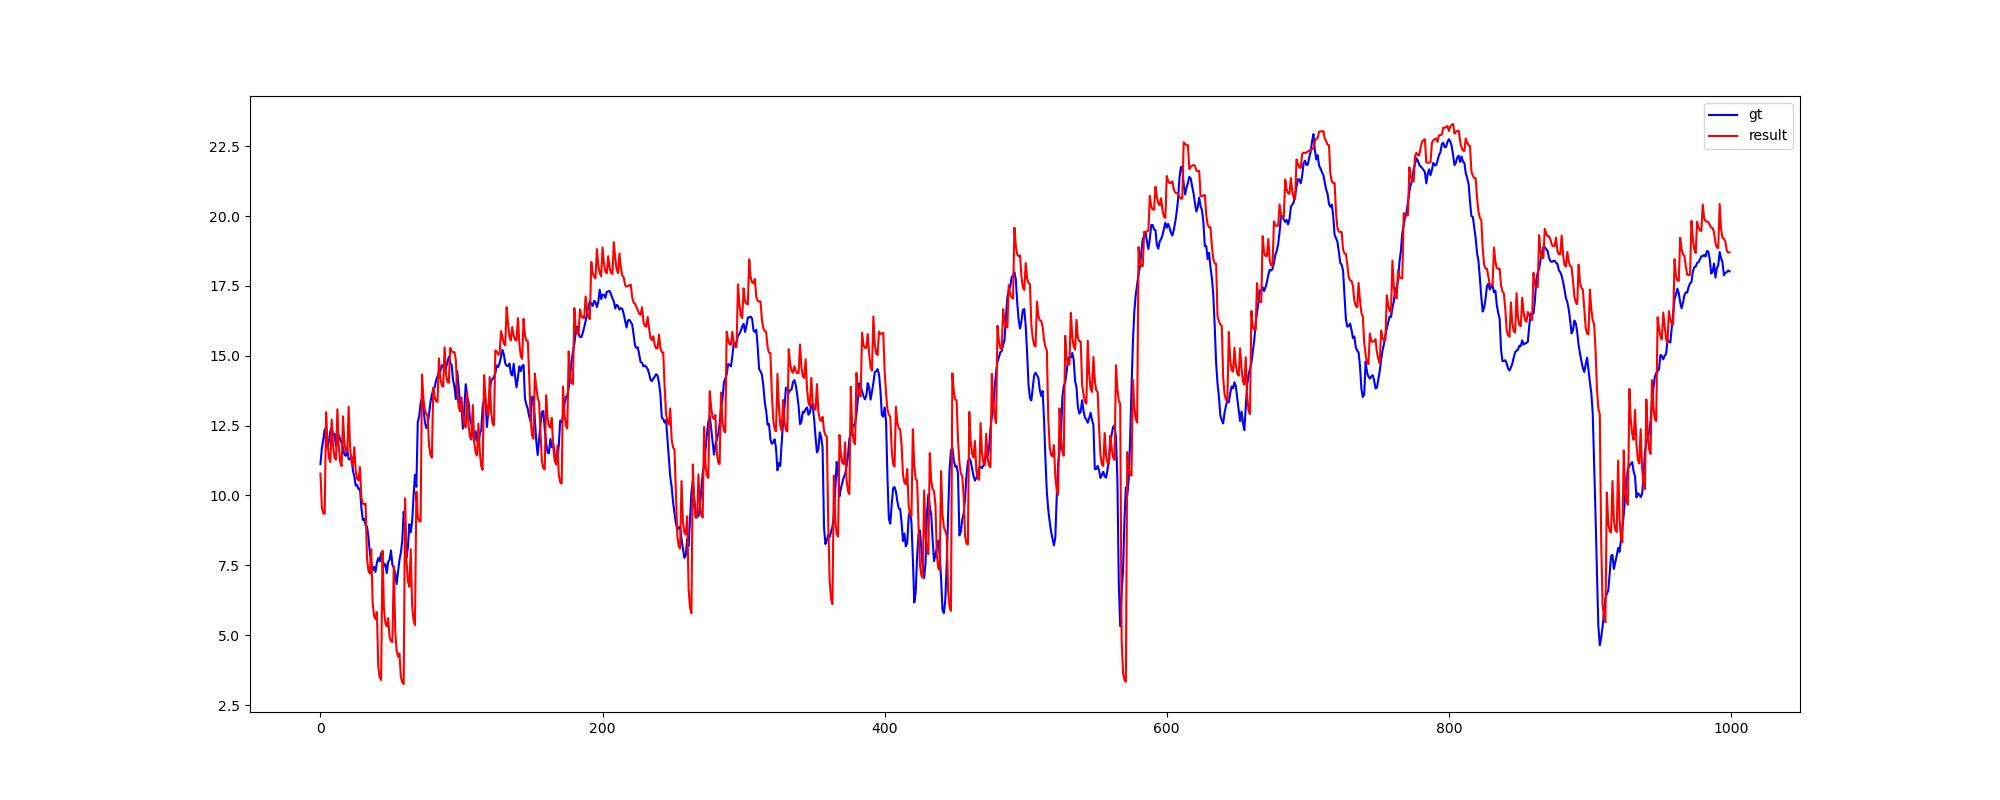
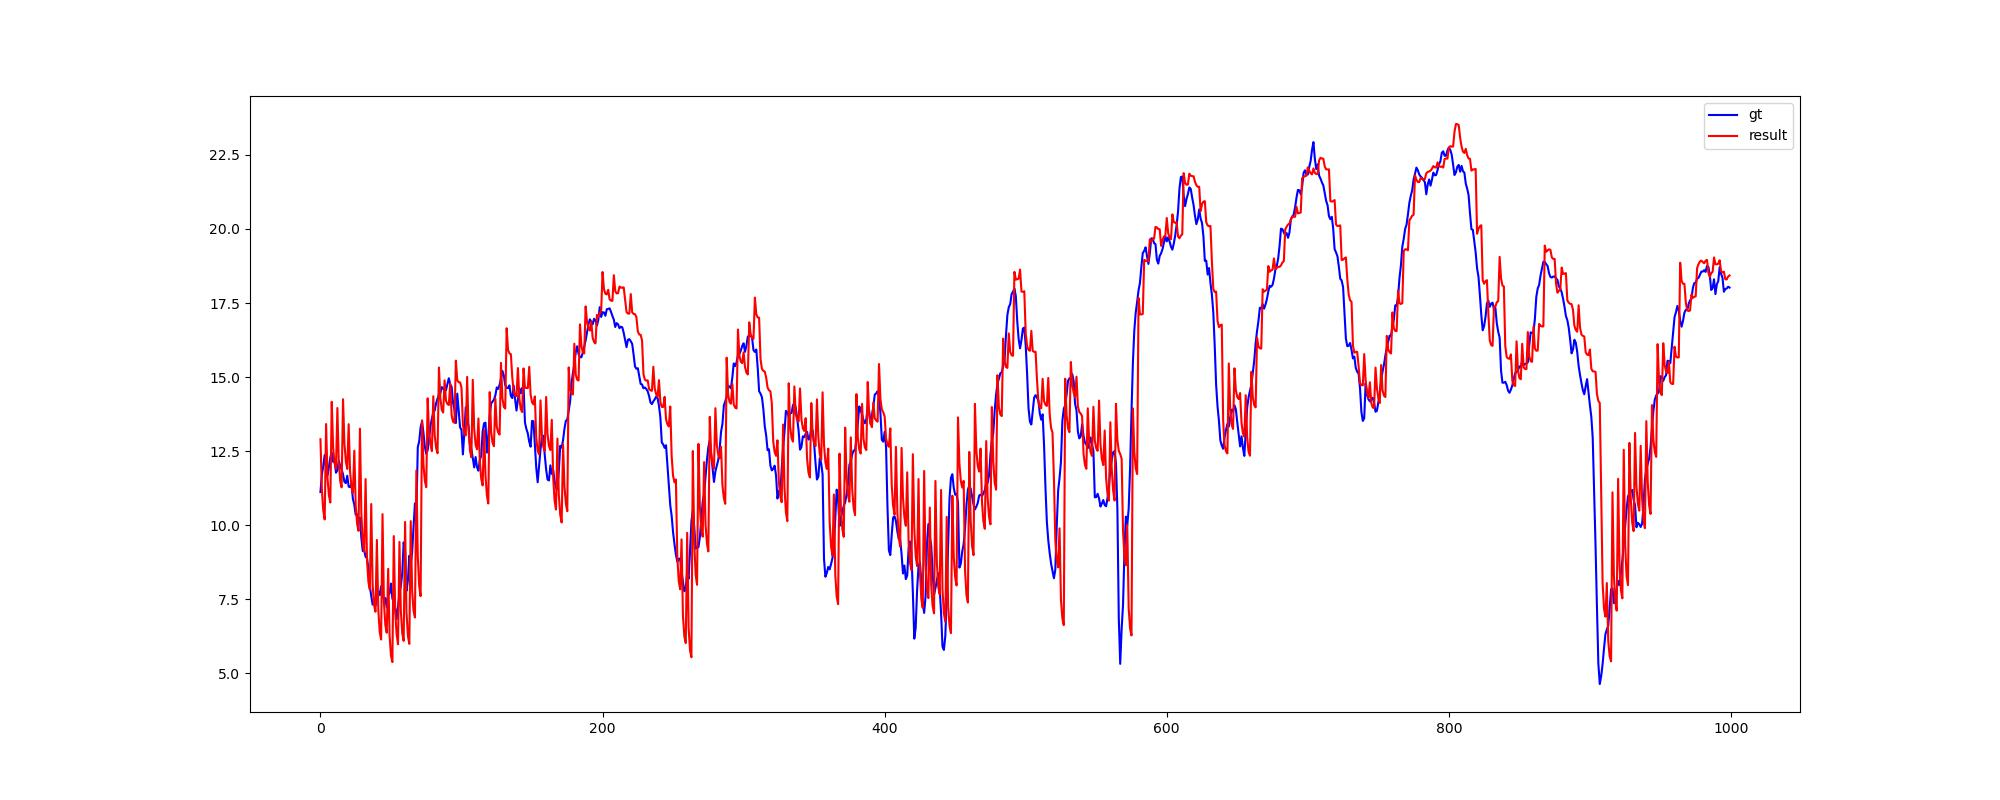
v0

Changed region(s): [[0.155, 0.1562, 0.868, 0.8438], [0.093, 0.4375, 0.124, 0.4688], [0.093, 0.25, 0.124, 0.2812]]

diff --git a/predict.py b/predict.py
@@ -8,7 +8,7 @@ from matplotlib import pyplot as plt
 from tqdm import tqdm
 import math
 import random
-weight_path='checkpoints/weight/2023_09_23_22_41_50/final.pth'
+weight_path='checkpoints/weight/2023_09_26_16_50_28/ep620-loss0.401-val_loss0.402.pth'
 model_configs_path='configs/LSTM.yaml'
 dataset_configs_path='configs/dataset.yaml'
 with open(model_configs_path,'r',encoding='utf-8') as f:
